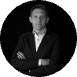
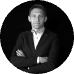
fixing dietmars picture

diff --git a/src/_includes/sections/our-team/board.html b/src/_includes/sections/our-team/board.html
@@ -19,7 +19,7 @@
                 <h4 class="pt-5 font-sansmd text-lg font-medium tracking-tight text-white">Terry Sweeney</h4>
                 <p class="pb-3 text-press font-medium text-salmon">Chairman of the Board</p>
                 <p class="text-press text-white text-opacity-80">
-                    An experienced food industry leader, Terry brings decades of experience guiding high-growth companies.
+                    Co-founder and former CEO of Veranda; former retail CIO and a founding leader of Toronto&rsquo;s Daily Bread Food Bank.
                 </p>
             </div>
 
@@ -31,7 +31,7 @@
                 <h4 class="pt-5 font-sansmd text-lg font-medium tracking-tight text-white">Paul Oulahen</h4>
                 <p class="pb-3 text-press font-medium text-salmon">Board Member</p>
                 <p class="text-press text-white text-opacity-80">
-                    Paul advises on finance and growth strategy, helping Veranda scale responsibly.
+                    Toronto entrepreneur and real estate broker with 40+ years building businesses; advises on growth and investment.
                 </p>
             </div>
 
@@ -40,7 +40,9 @@
                 <div class="flex h-32 w-32 shrink-0 items-center justify-center rounded-full border border-brightgreen border-opacity-40 bg-salmon font-sansmd text-xlg text-slate">DT</div>
                 <h4 class="pt-5 font-sansmd text-lg font-medium tracking-tight text-white">Dennis Tobin</h4>
                 <p class="pb-3 text-press font-medium text-salmon">Board Member</p>
-                <p class="text-press text-white text-opacity-80"></p>
+                <p class="text-press text-white text-opacity-80">
+                    Corporate lawyer specializing in retail leasing, M&amp;A, and venture deals for major retailers and growth companies.
+                </p>
             </div>
         </div>
 
@@ -55,44 +57,52 @@
         </h3>
 
         <div class="grid grid-cols-1 gap-8 ztablet:grid-cols-2 zdesktop:grid-cols-4">
-            <!-- Dietmar Wennemer -->
-            <div data-aos="fade-up" data-aos-offset="0" data-aos-duration="800" data-aos-once="true" class="flex flex-col items-center rounded-[20px] bg-primary p-6 text-center">
-                <div class="flex h-32 w-32 shrink-0 items-center justify-center overflow-hidden rounded-full border border-brightgreen border-opacity-40">
-                    <img class="h-full w-full object-cover object-top" src="/assets/our_team/advisors/dietmar.png" alt="Dietmar Wennemer" />
-                </div>
-                <h4 class="pt-5 font-sansmd text-lg font-medium tracking-tight text-white">Dietmar Wennemer</h4>
-                <p class="pb-3 text-press font-medium text-salmon">Advisor</p>
-                <p class="text-press text-white text-opacity-80"></p>
-            </div>
-
-            <!-- Joseph Evangelist -->
-            <div data-aos="fade-up" data-aos-offset="0" data-aos-duration="800" data-aos-delay="100" data-aos-once="true" class="flex flex-col items-center rounded-[20px] bg-primary p-6 text-center">
-                <div class="flex h-32 w-32 shrink-0 items-center justify-center overflow-hidden rounded-full border border-brightgreen border-opacity-40">
-                    <img class="h-full w-full object-cover object-top" src="/assets/our_team/advisors/joseph.png" alt="Joseph Evangelist" />
-                </div>
-                <h4 class="pt-5 font-sansmd text-lg font-medium tracking-tight text-white">Joseph Evangelist</h4>
-                <p class="pb-3 text-press font-medium text-salmon">Advisor</p>
-                <p class="text-press text-white text-opacity-80"></p>
-            </div>
-
             <!-- Perry Caicco -->
-            <div data-aos="fade-up" data-aos-offset="0" data-aos-duration="800" data-aos-delay="200" data-aos-once="true" class="flex flex-col items-center rounded-[20px] bg-primary p-6 text-center">
+            <div data-aos="fade-up" data-aos-offset="0" data-aos-duration="800" data-aos-once="true" class="flex flex-col items-center rounded-[20px] bg-primary p-6 text-center">
                 <div class="flex h-32 w-32 shrink-0 items-center justify-center overflow-hidden rounded-full border border-brightgreen border-opacity-40">
                     <img class="h-full w-full object-cover object-top" src="/assets/our_team/advisors/perry.png" alt="Perry Caicco" />
                 </div>
                 <h4 class="pt-5 font-sansmd text-lg font-medium tracking-tight text-white">Perry Caicco</h4>
-                <p class="pb-3 text-press font-medium text-salmon">Advisor</p>
-                <p class="text-press text-white text-opacity-80"></p>
+                <p class="pb-3 text-press font-medium text-salmon">Strategic Advisor</p>
+                <p class="text-press text-white text-opacity-80">
+                    Former retail president and CIBC Managing Director; Canada&rsquo;s #1-ranked Retail and Consumer analyst for 15 years.
+                </p>
             </div>
 
             <!-- Gale Blank -->
-            <div data-aos="fade-up" data-aos-offset="0" data-aos-duration="800" data-aos-delay="300" data-aos-once="true" class="flex flex-col items-center rounded-[20px] bg-primary p-6 text-center">
+            <div data-aos="fade-up" data-aos-offset="0" data-aos-duration="800" data-aos-delay="100" data-aos-once="true" class="flex flex-col items-center rounded-[20px] bg-primary p-6 text-center">
                 <div class="flex h-32 w-32 shrink-0 items-center justify-center overflow-hidden rounded-full border border-brightgreen border-opacity-40">
                     <img class="h-full w-full object-cover object-top" src="/assets/our_team/advisors/gale.png" alt="Gale Blank" />
                 </div>
                 <h4 class="pt-5 font-sansmd text-lg font-medium tracking-tight text-white">Gale Blank</h4>
-                <p class="pb-3 text-press font-medium text-salmon">Advisor</p>
-                <p class="text-press text-white text-opacity-80"></p>
+                <p class="pb-3 text-press font-medium text-salmon">Technology Advisor</p>
+                <p class="text-press text-white text-opacity-80">
+                    Former CIO of Reitmans, Walmart Canada, and Loblaws; VP &amp; Chief Architect for Walmart globally.
+                </p>
+            </div>
+
+            <!-- Dietmar Wennemer -->
+            <div data-aos="fade-up" data-aos-offset="0" data-aos-duration="800" data-aos-delay="200" data-aos-once="true" class="flex flex-col items-center rounded-[20px] bg-primary p-6 text-center">
+                <div class="flex h-32 w-32 shrink-0 items-center justify-center overflow-hidden rounded-full border border-brightgreen border-opacity-40">
+                    <img class="h-full w-full object-cover object-top" src="/assets/our_team/advisors/dietmar.png" alt="Dietmar Wennemer" />
+                </div>
+                <h4 class="pt-5 font-sansmd text-lg font-medium tracking-tight text-white">Dietmar Wennemer</h4>
+                <p class="pb-3 text-press font-medium text-salmon">Manufacturing Advisor</p>
+                <p class="text-press text-white text-opacity-80">
+                    CEO of Virtek Vision and former BlackBerry SVP of Product Development, where he led 1,200 engineers.
+                </p>
+            </div>
+
+            <!-- Joseph Evangelist -->
+            <div data-aos="fade-up" data-aos-offset="0" data-aos-duration="800" data-aos-delay="300" data-aos-once="true" class="flex flex-col items-center rounded-[20px] bg-primary p-6 text-center">
+                <div class="flex h-32 w-32 shrink-0 items-center justify-center overflow-hidden rounded-full border border-brightgreen border-opacity-40">
+                    <img class="h-full w-full object-cover object-top" src="/assets/our_team/advisors/joseph.png" alt="Joseph Evangelist" />
+                </div>
+                <h4 class="pt-5 font-sansmd text-lg font-medium tracking-tight text-white">Joseph Evangelist</h4>
+                <p class="pb-3 text-press font-medium text-salmon">Logistics Advisor</p>
+                <p class="text-press text-white text-opacity-80">
+                    Vice Chair and part owner of Transervice Logistics, a billion-dollar New York-based 3PL.
+                </p>
             </div>
         </div>
     </div>